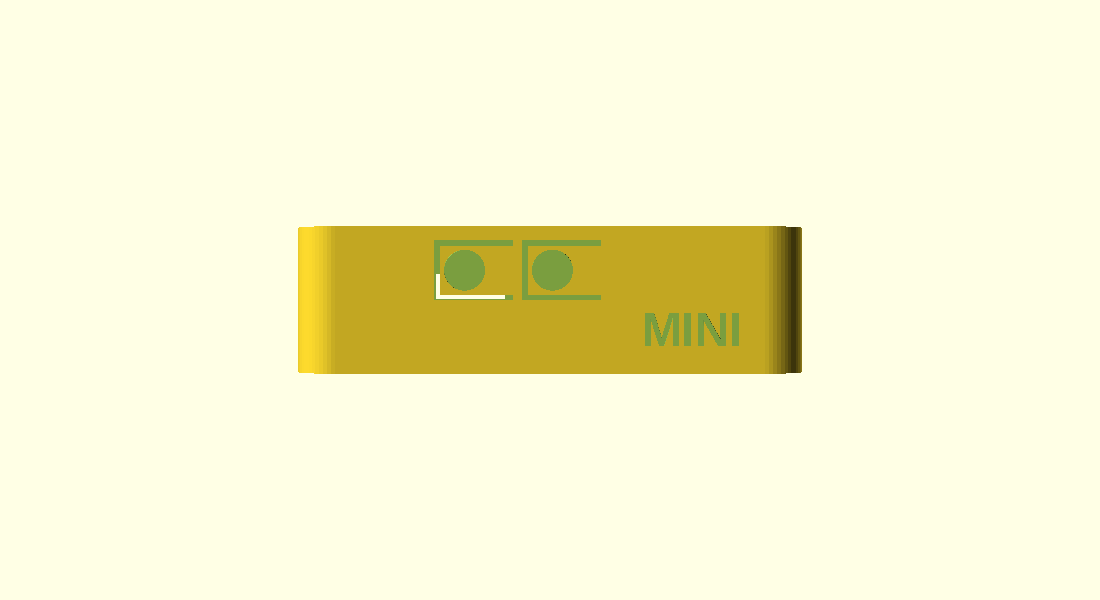
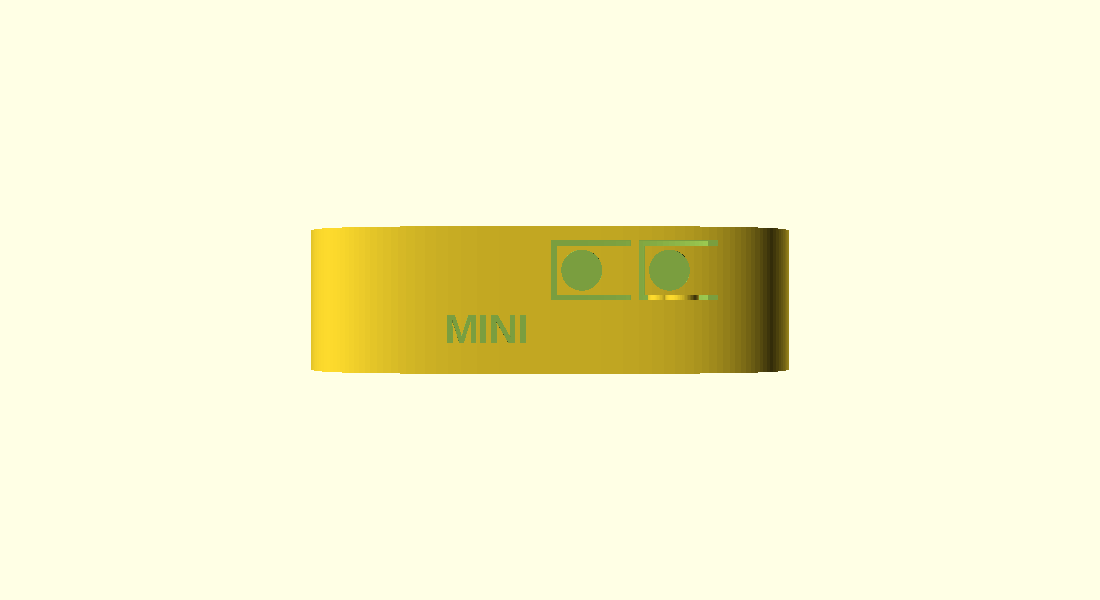
feat: squircle profile, and re-derive the snap fingers from the curve
The shell is now a superellipse, |x/a|^n + |y/b|^n = 1 at n=4, instead of a
rectangle with radiused corners. Curvature is continuous the whole way round.

The shape change is not skin deep, because the wall is no longer straight:

- Snap fingers sat at 0.32/0.68 of the width, where the squircle falls away
  0.8 mm across a 7 mm finger. Measured against the curve, the barb's
  engagement there ran 0.80 mm at one end to 0.00 at the other - one end of
  every finger gripping nothing, and a case that pops open. Fingers are now
  5 mm wide at +/-6 mm from centre, where the wall moves 0.31 mm and grip holds
  at 0.49-0.80 mm across the full width. Their seat is computed from the
  superellipse rather than being a fixed inset.

- Grooves now cut from below the barb tip up to the finger face. Material only
  exists outboard of the curved wall, so the groove follows that curve without
  being modelled as one.

- Engraving moved into the flat band. A squircle's long side pulls in by 0.5 mm
  toward its ends, which would swallow a 0.5 mm engraving entirely; between
  y 15 and 38 it moves under 0.2 mm. The cut now starts outside the shell so it
  bites regardless. Buttons moved down to clear the text, and because a flexure
  on a curved patch binds.

Also exports plate.stl. Loading back.stl and front.stl together puts the bezel
inside the tub, at the same origin, which is why the slicer looked like it was
only showing one part.

Changed region(s): [[0.2473, 0.36, 0.7418, 0.63]]

diff --git a/case/README.md b/case/README.md
@@ -5,7 +5,25 @@ Two printed parts, no screws and no inserts: a back tub that holds the board, an
 ```
 openscad -o back.stl  -D 'part="back"'  mono-note-mini.scad
 openscad -o front.stl -D 'part="front"' mono-note-mini.scad
+openscad -o plate.stl -D 'part="plate"' mono-note-mini.scad
 ```
+
+**Open `plate.stl` in the slicer, not the two parts separately.** Both parts are
+modelled at the same origin, so loading `back.stl` and `front.stl` together puts
+the bezel *inside* the tub where you cannot see it. `plate.stl` lays them out
+side by side.
+
+## Shape
+
+The profile is a **squircle** - the superellipse `|x/a|^n + |y/b|^n = 1` at
+n = 4, rather than a rectangle with radiused corners. Curvature is continuous
+the whole way round, so there is no point where a straight edge meets an arc.
+(n = 2 would be an ellipse, n -> infinity a rectangle; Apple's icon is n ~ 5 and
+so not strictly a squircle.) Change `sq_n` to taste.
+
+It is not only cosmetic. The wall is no longer straight, so the snap fingers
+had to be re-derived from the curve: at their old positions the barb lost all
+engagement at its inner end and the case would have popped open.
 
 Open the file in [OpenSCAD](https://openscad.org) and set `part` to `"assembly"` to see it together, or `"plate"` to lay both out for printing.
 
@@ -22,7 +40,7 @@ What it changes is how it opens. Two screws become six snap hooks and a thumb no
 | | mm |
 |---|---|
 | Outside | 39.80 × 53.00 × 16.90 |
-| Corner radius | R4.50 |
+| Corner profile | squircle, n = 4 |
 | Display window | 27.80 square |
 | Window position | centred horizontally, 14.30 up from the bottom edge |
 
